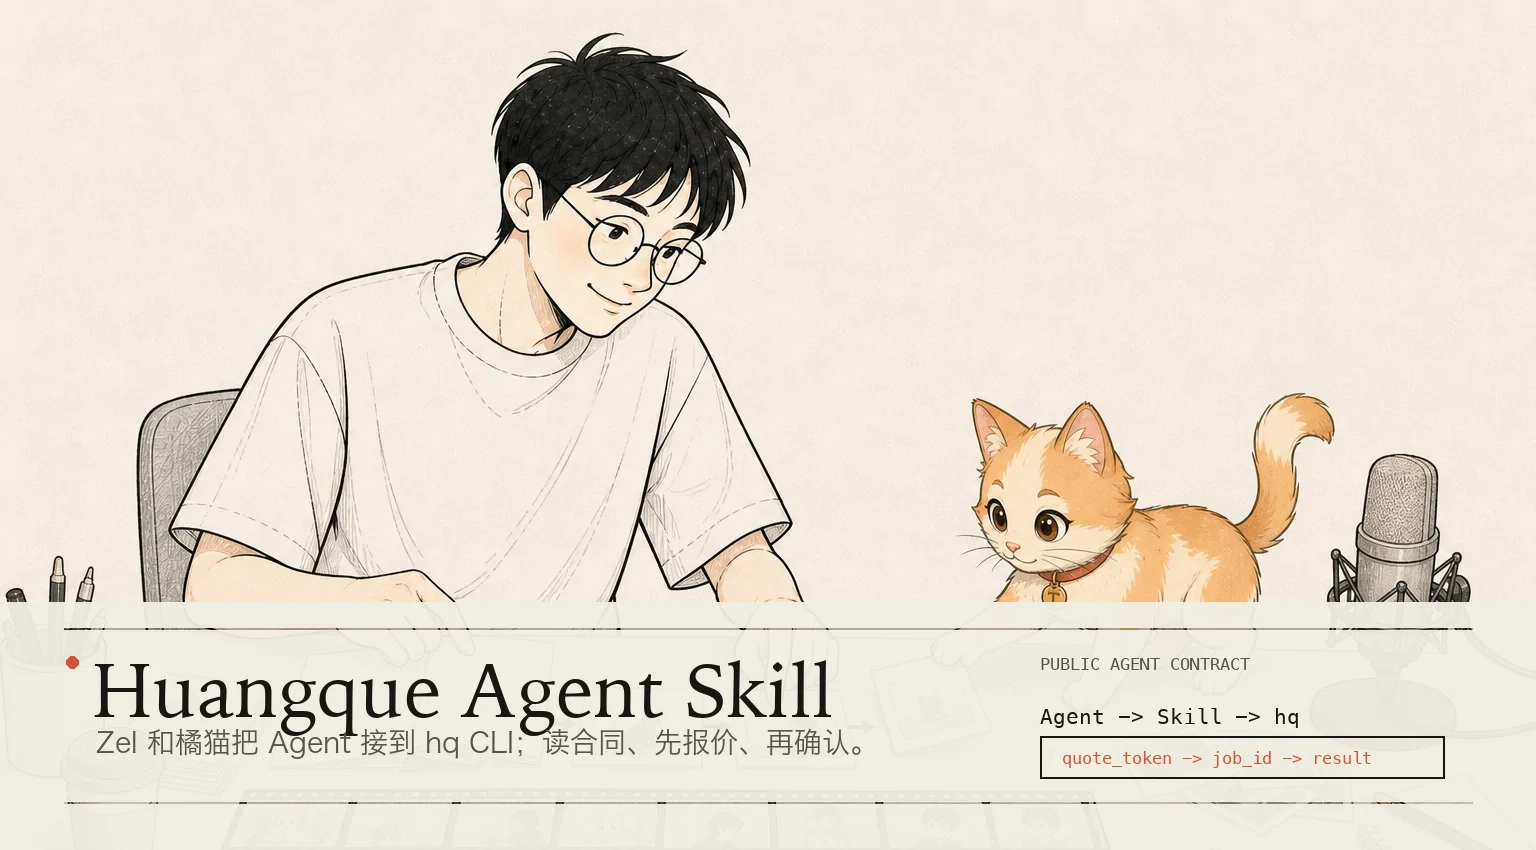
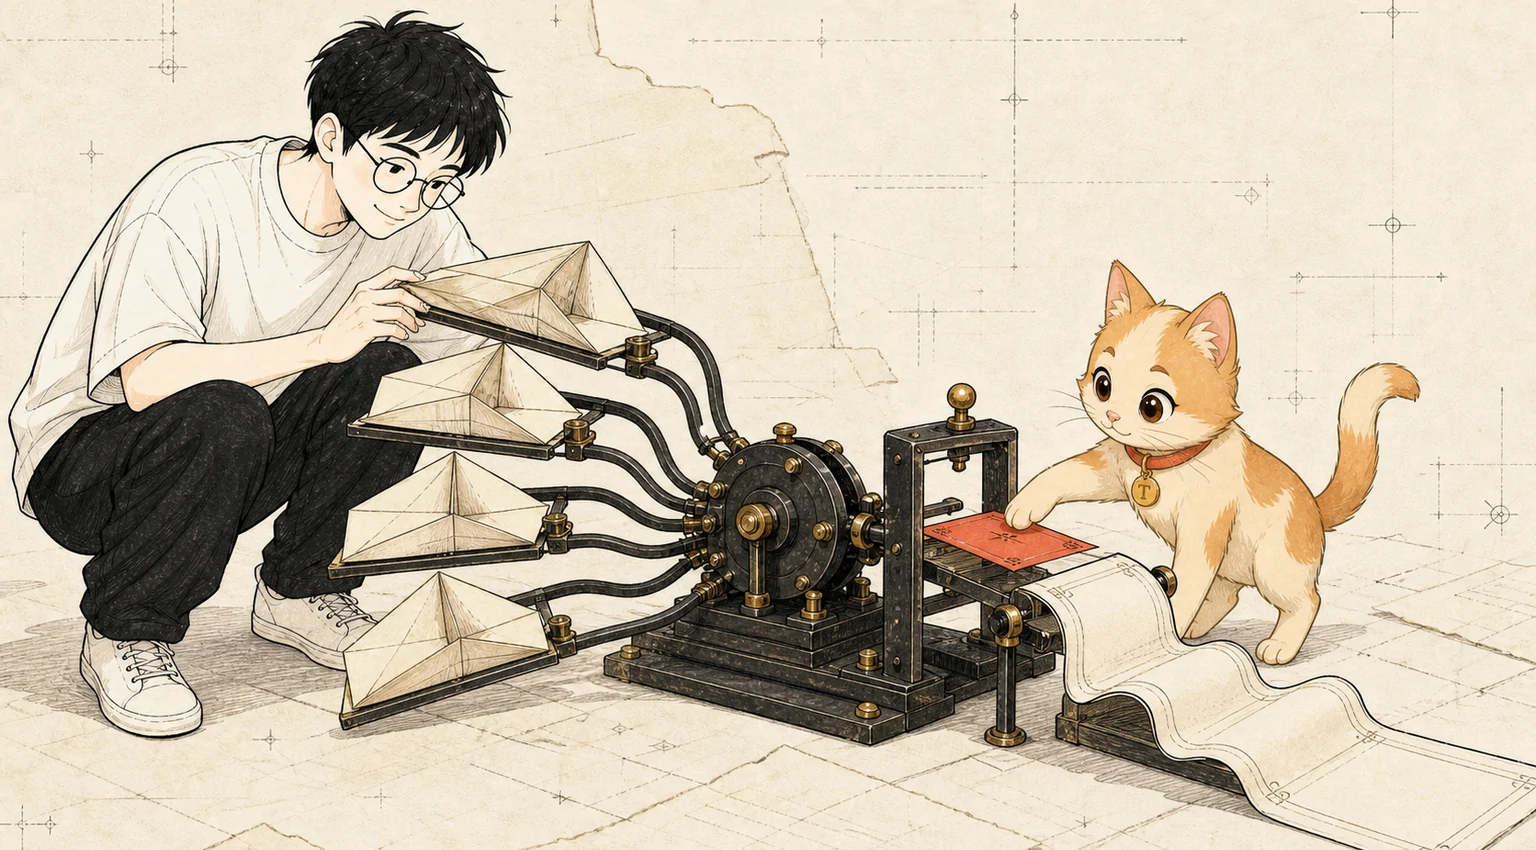
docs: redraw README hero illustration

diff --git a/README.md b/README.md
@@ -1,5 +1,5 @@
 <p align="center">
-  <img src="./assets/readme/hero.webp" width="100%" alt="Zel and the orange cat organizing the Huangque Agent Skill workflow on a paper desk">
+  <img src="./assets/readme/hero.webp" width="100%" alt="Zel and the orange cat guiding four paper Agent inputs through the Huangque confirmation machine">
 </p>
 
 # Huangque Agent Skill
